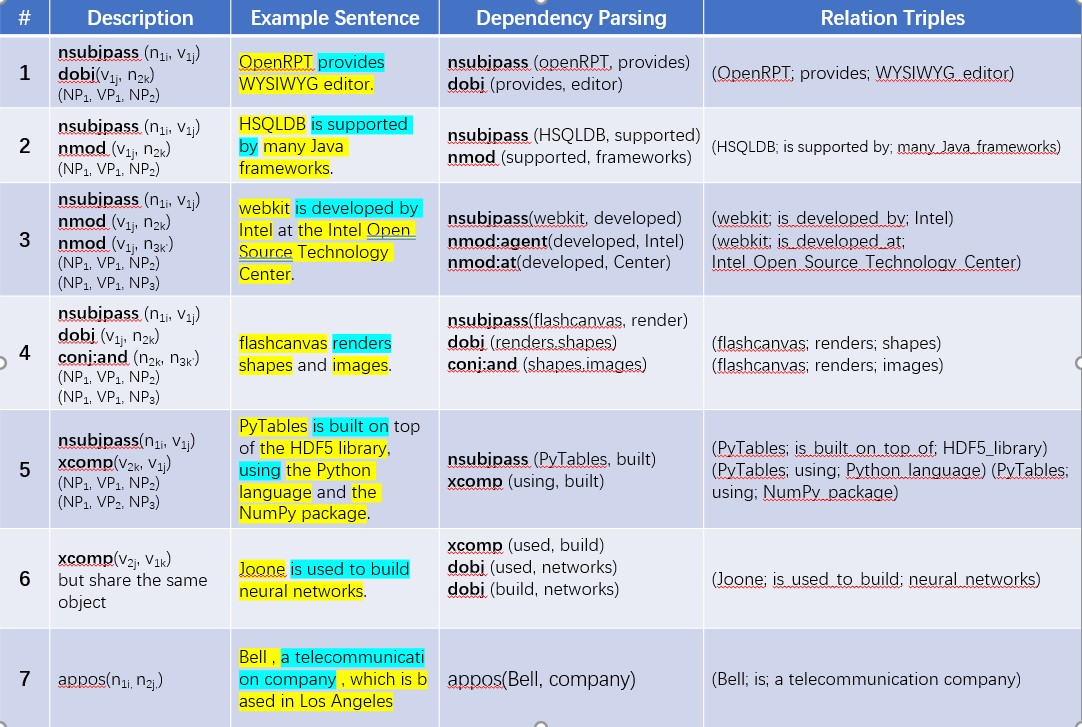
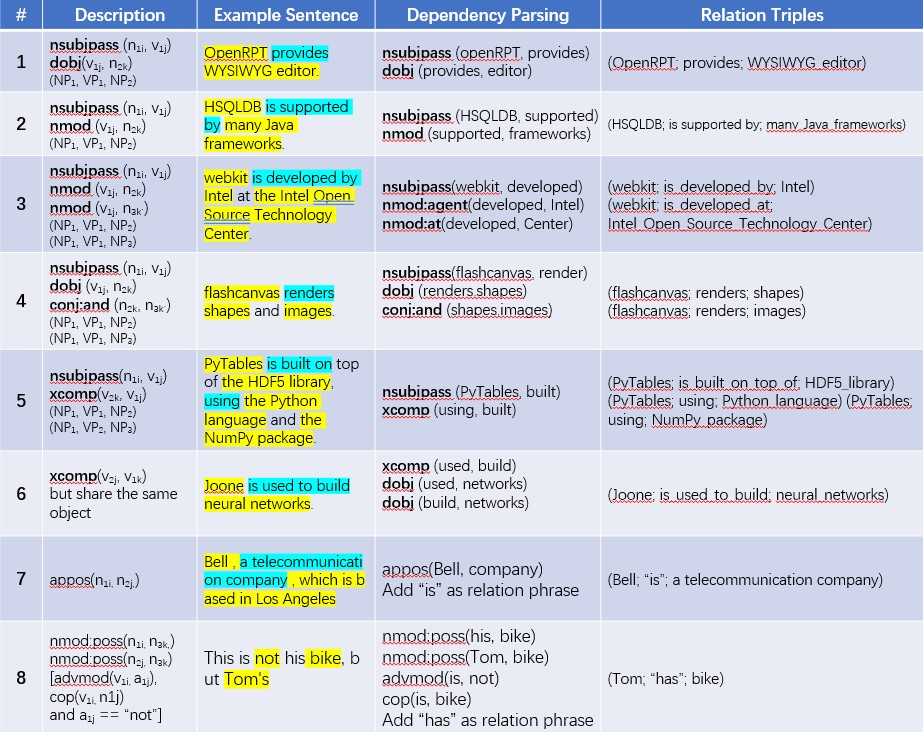
upload

diff --git a/README.md b/README.md
@@ -12,7 +12,7 @@ Pipeline open information extraction (OIE) systems mainly have two sub-tasks (co
 2. Compound sentence simplified (C2S)
    
 
-3. 8 scenarios to extract relation triples
+4. 8 scenarios to extract relation triples
    <div align="left">
       <img src="./img/scenarios.jpg" width = "80%" alt="" align=center />
    </div>
